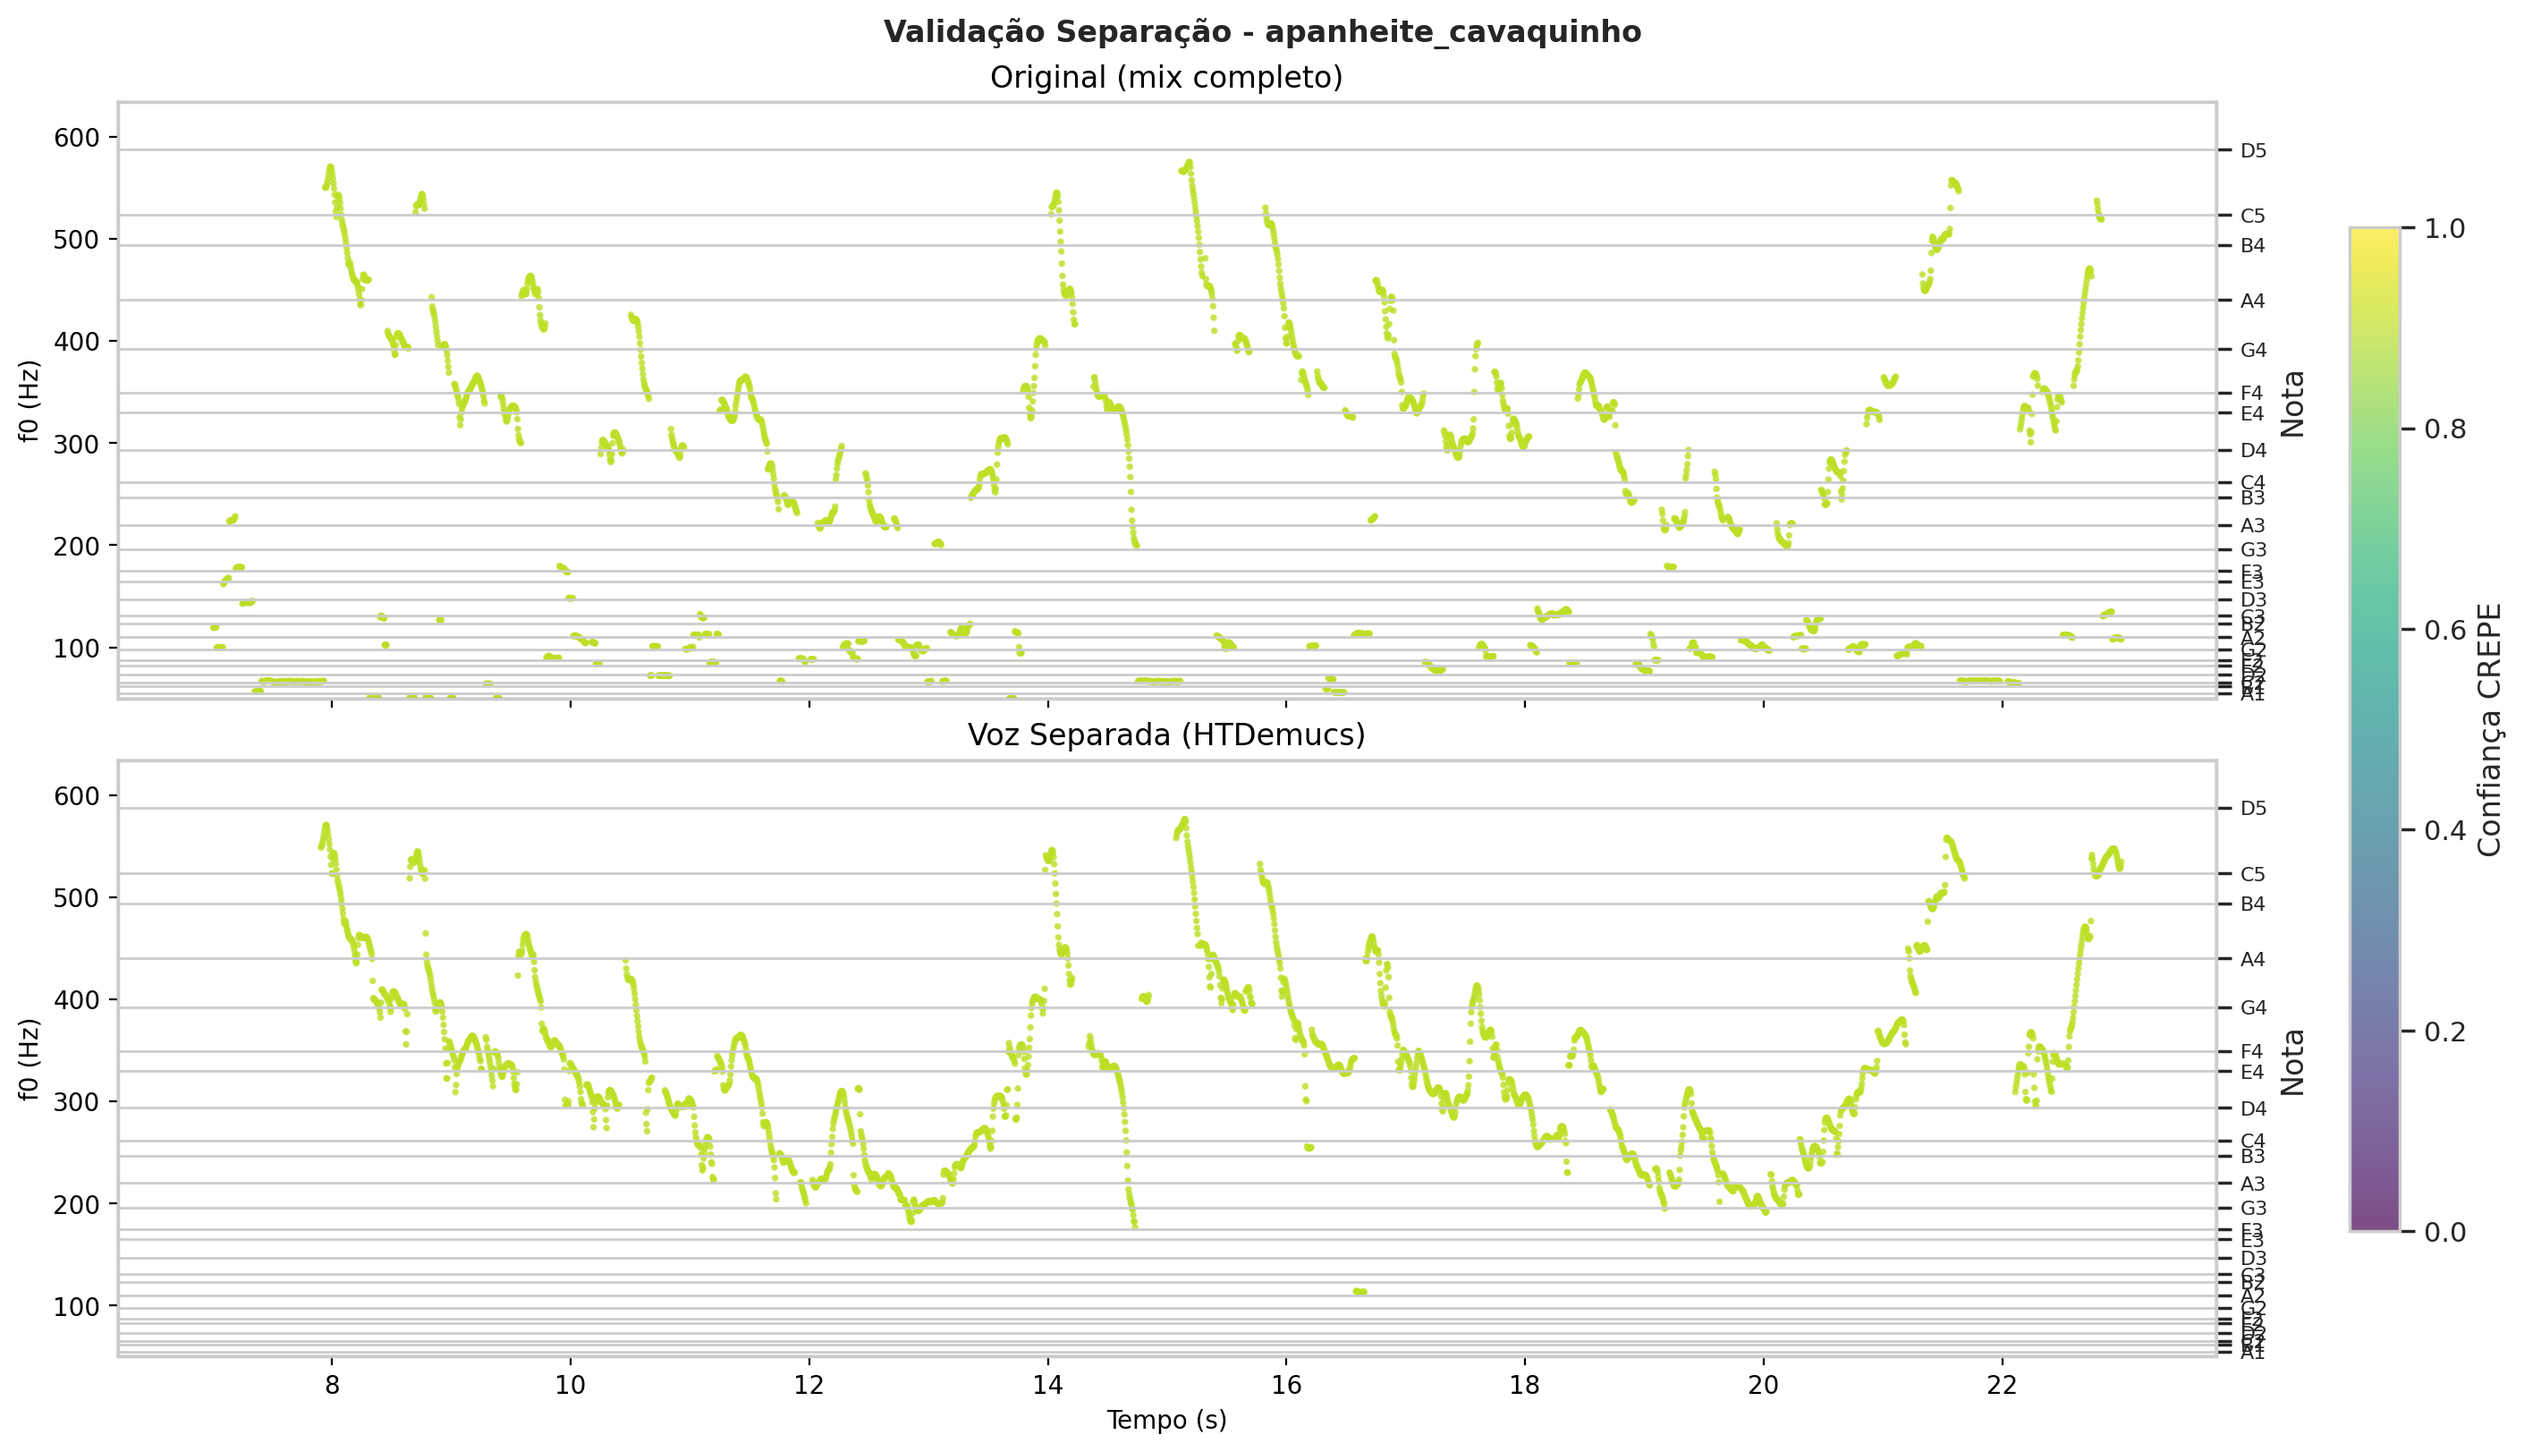
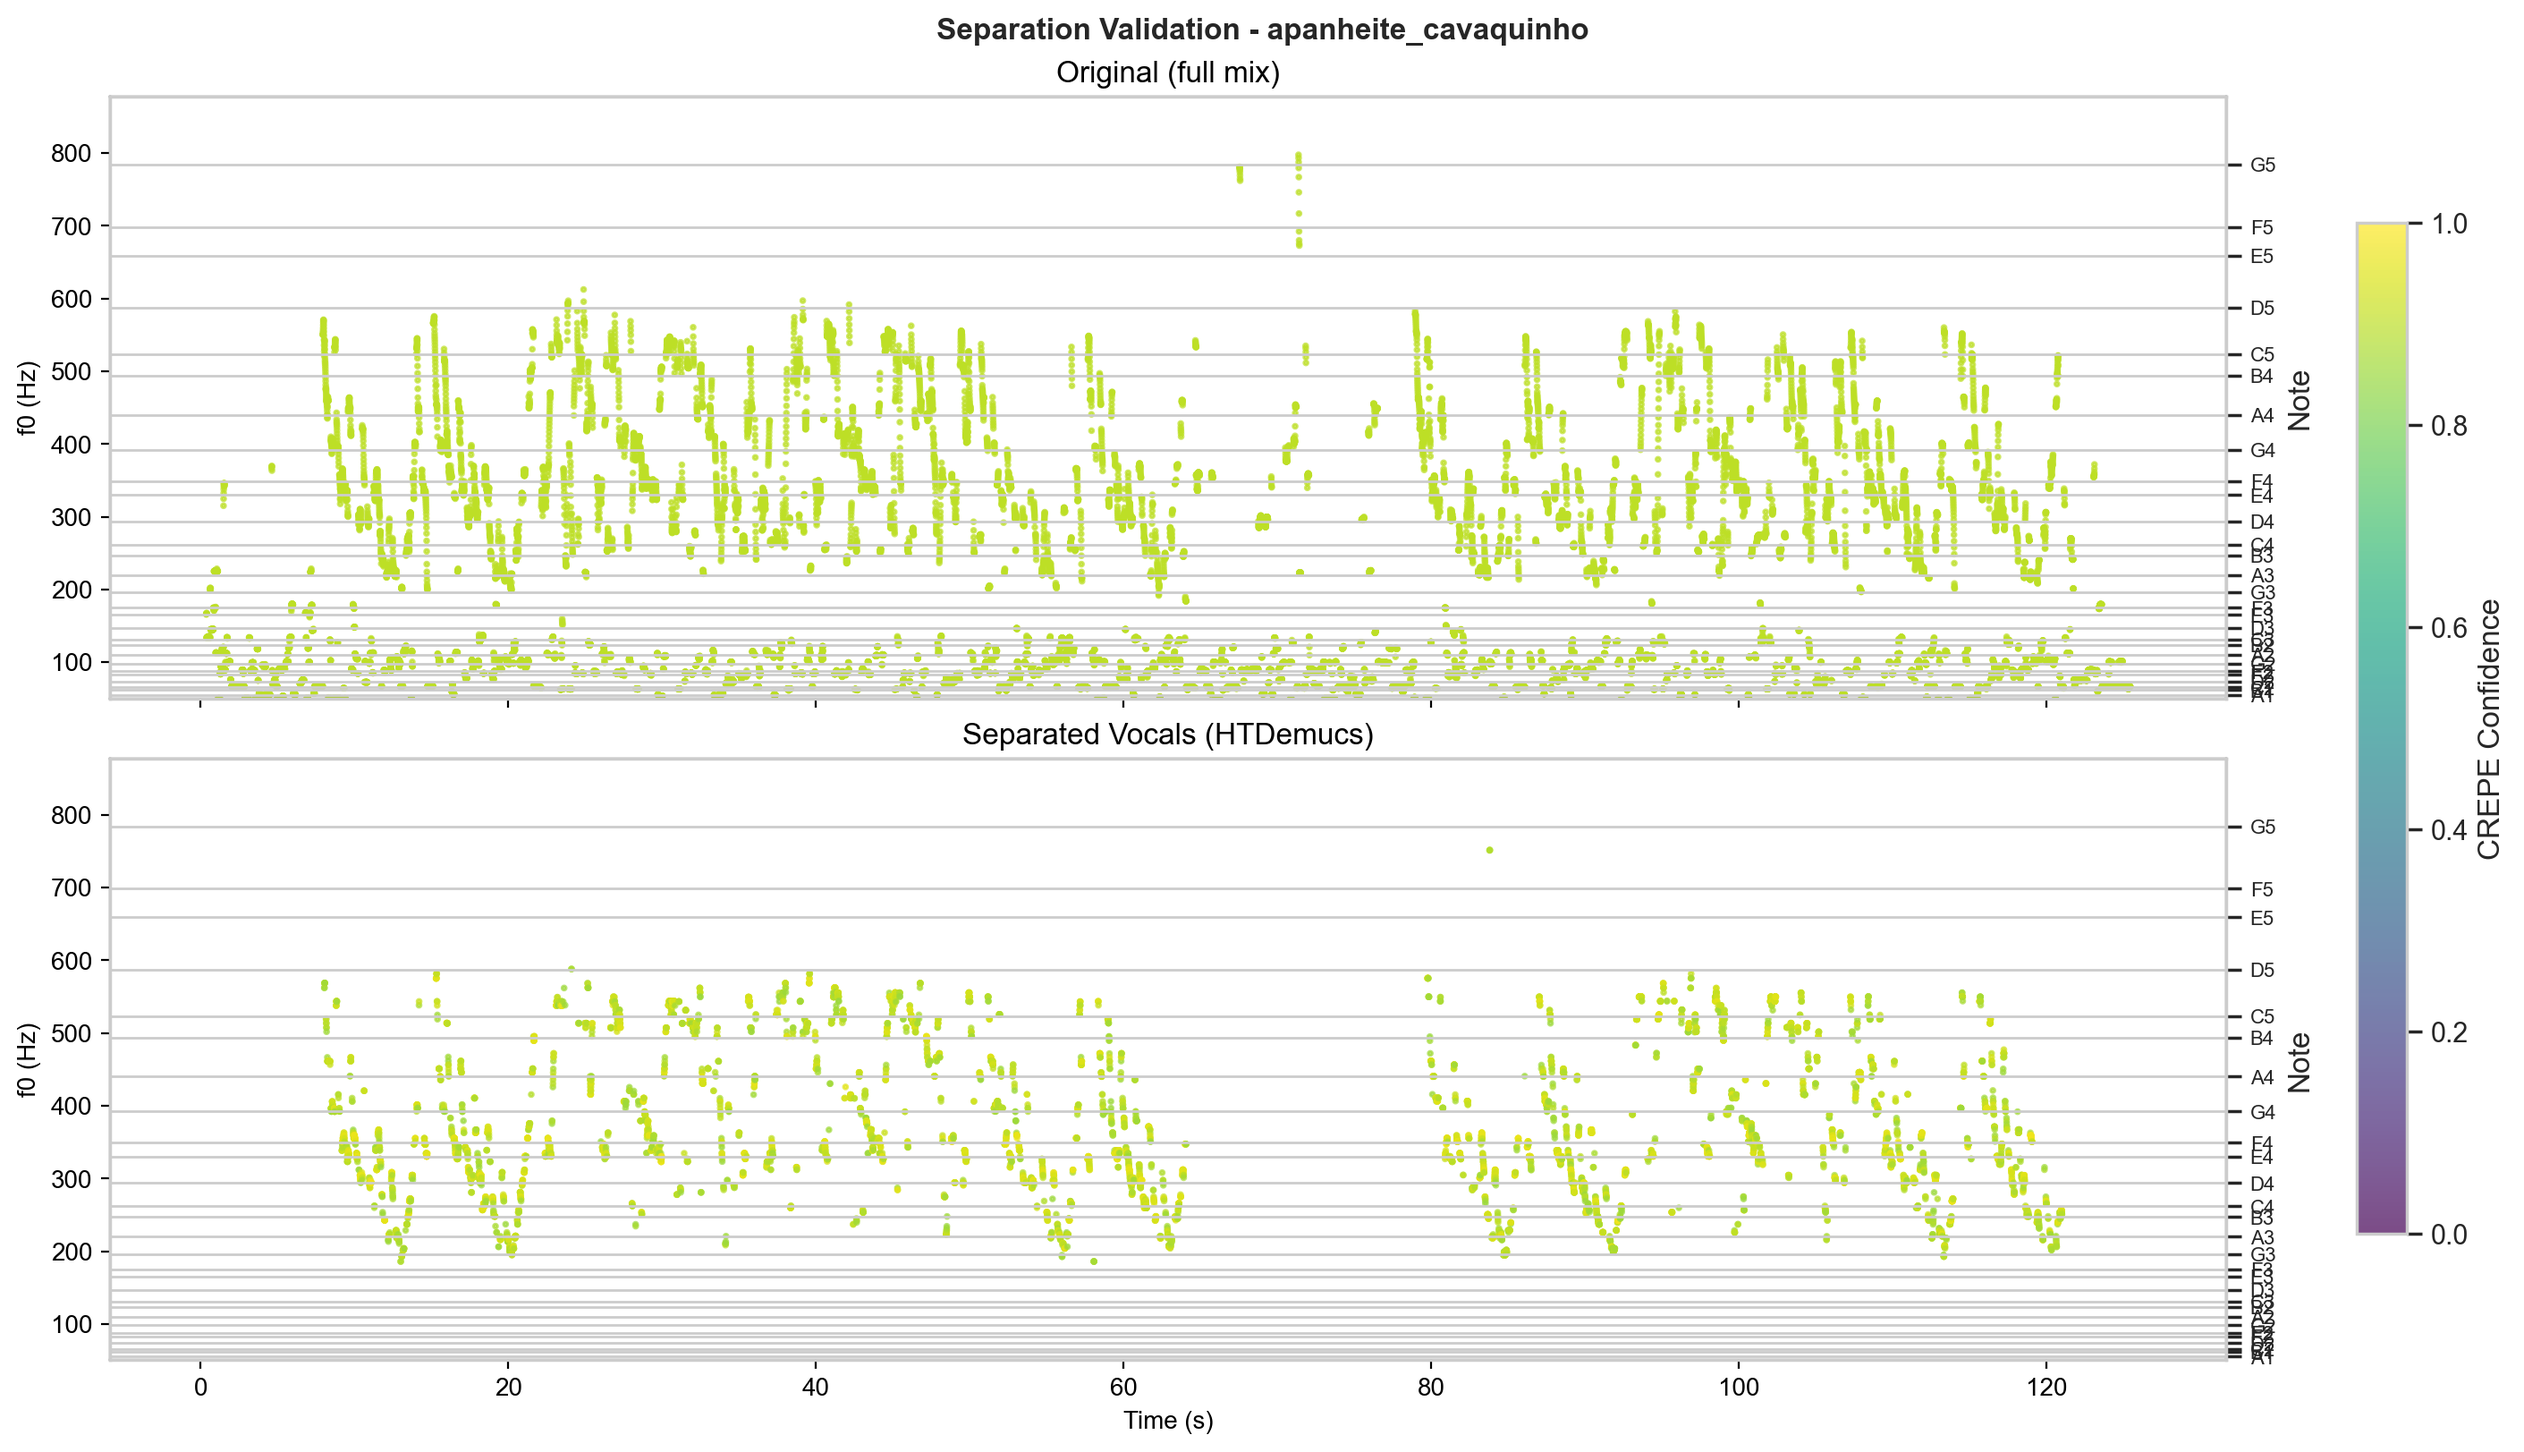
fix: regenerate separation validation plots with EN labels
Plots previously had Portuguese subtitles. Created a lite regeneration
script that uses CSV data instead of HTDemucs cache, and regenerated
all 3 plots with English labels.

Changed region(s): [[0.0, 0.0, 0.9979, 0.9858]]

diff --git a/src/vocal_analysis/scripts/regenerate_validation_plot_lite.py b/src/vocal_analysis/scripts/regenerate_validation_plot_lite.py
@@ -1,0 +1,82 @@
+"""Regenerate separation validation plots from CSV + original MP3 (no HTDemucs needed).
+
+Reads separated vocal f0/confidence from xgb_predictions.csv,
+extracts original mix f0 via Praat (fast), and regenerates the plots.
+
+Usage:
+    uv run python -m vocal_analysis.scripts.regenerate_validation_plot_lite
+    uv run python -m vocal_analysis.scripts.regenerate_validation_plot_lite --song delicado
+"""
+
+import argparse
+from pathlib import Path
+
+import pandas as pd
+
+from vocal_analysis.features.extraction import extract_bioacoustic_features
+from vocal_analysis.visualization.plots import plot_separation_validation
+
+
+def main() -> None:
+    parser = argparse.ArgumentParser(description="Regenerate validation plots (lite)")
+    parser.add_argument("--song", type=str, help="Song stem (e.g. 'delicado'). All if omitted.")
+    args = parser.parse_args()
+
+    project_root = Path(__file__).parent.parent.parent.parent
+    csv_path = project_root / "outputs" / "xgb_predictions.csv"
+    raw_dir = project_root / "data" / "raw"
+    plot_dir = project_root / "outputs" / "plots"
+    plot_dir.mkdir(parents=True, exist_ok=True)
+
+    df = pd.read_csv(csv_path)
+    songs = df["song"].unique()
+
+    if args.song:
+        songs = [s for s in songs if args.song.lower() in s.lower()]
+        if not songs:
+            print(f"No song matching '{args.song}' in CSV.")
+            return
+
+    for song in songs:
+        print(f"\n--- {song} ---")
+
+        # Find original MP3
+        mp3_path = raw_dir / f"{song}.mp3"
+        if not mp3_path.exists():
+            print(f"  MP3 not found: {mp3_path}")
+            continue
+
+        # Extract f0 from original mix via Praat (fast)
+        print("  Extracting f0 from original mix (Praat)...")
+        orig_features = extract_bioacoustic_features(
+            mp3_path,
+            skip_formants=True,
+            skip_jitter_shimmer=True,
+            skip_cpps=True,
+            use_praat_f0=True,
+        )
+
+        # Get separated vocal data from CSV
+        song_df = df[df["song"] == song].sort_values("time")
+        time_sep = song_df["time"].values
+        f0_sep = song_df["f0"].values
+        conf_sep = song_df["confidence"].values
+
+        # Generate plot
+        output_path = plot_dir / f"{song}_separation_validation.png"
+        print("  Generating plot...")
+        plot_separation_validation(
+            time_original=orig_features["time"],
+            f0_original=orig_features["f0"],
+            confidence_original=orig_features["confidence"],
+            time_separated=time_sep,
+            f0_separated=f0_sep,
+            confidence_separated=conf_sep,
+            title=f"Separation Validation - {song}",
+            save_path=output_path,
+        )
+        print(f"  Saved: {output_path.name}")
+
+
+if __name__ == "__main__":
+    main()
